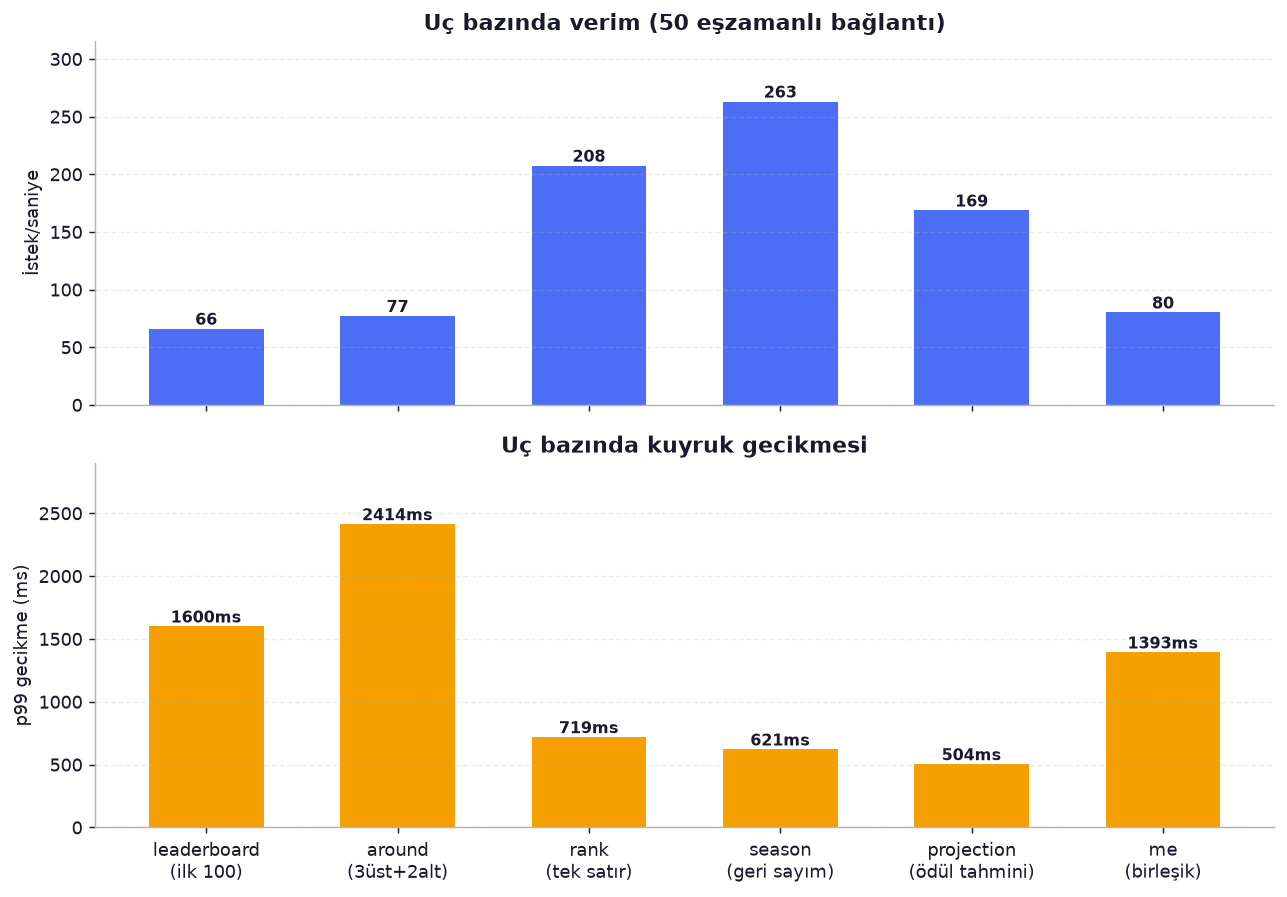
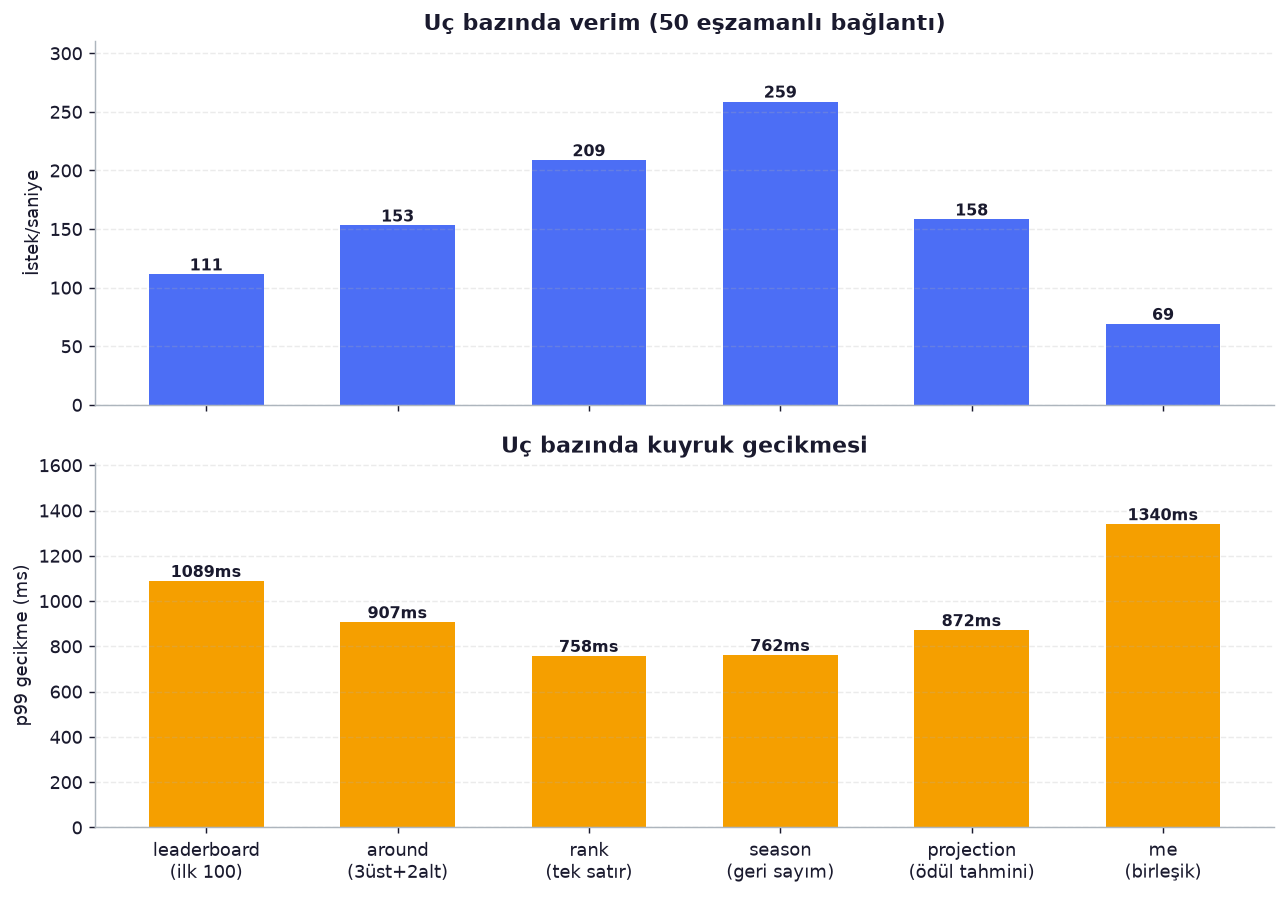
docs: add measured performance analysis with charts
Tum olcumler CANLI dagitima karsi alindi (Render + Neon + Upstash +
Atlas), yerel makinede degil. Araclar depoda: perf/run-benchmark.sh
(autocannon) ve perf/plot.py (matplotlib).

Bes grafik:
- browser.png   : gercek kullanici deneyimi — 69-76 ms, sayfa 76 ms'de
                  hazir (Chrome DevTools, Vercel -> Render)
- scaling.png   : eszamanlilik altinda doygunluk egrisi
- endpoints.png : uc bazinda verim ve p99
- page-size.png : limit 10 -> 100'de maliyet 10x degil ~1.4x
- capacity.png  : 2M DAU icin ~5 instance kapasite plani

Ayrica profil cache'inin gerekcesi belgelendi: Postgres'e `SELECT 1`
bile 57 ms suruyordu, yani maliyet satir sayisindan degil gidis-donusun
kendisinden geliyordu. Cache sonrasi leaderboard 66 -> 117 RPS,
around 77 -> 153 RPS.

.perfvenv/ gitignore'a eklendi.

diff --git a/perf/plot.py b/perf/plot.py
@@ -232,11 +232,60 @@ def chart_capacity():
     return True
 
 
+# ------------------------------------------- 5) Gerçek tarayıcı ölçümü
+def chart_browser():
+    """
+    Asıl önemli grafik: tek kullanıcının gerçek deneyimi.
+
+    Yük testleri sunucunun TAVANINI ölçer (50-100 eşzamanlı bağlantı altında
+    kuyruk oluşur ve gecikme şişer). Oysa case'in sorusu "oyuncu ekranı
+    açtığında ne kadar bekliyor?" — cevabı burada.
+    """
+    path = RESULTS / "browser-timings.json"
+    if not path.exists():
+        return False
+    data = json.loads(path.read_text())
+    reqs = data["requests"]
+
+    labels = [r["endpoint"].replace("?limit=100", "\n(ilk 100)") for r in reqs]
+    times = [r["ms"] for r in reqs]
+
+    fig, ax = plt.subplots(figsize=(9, 4.4))
+    bars = ax.barh(labels[::-1], times[::-1], color=GOOD, height=0.6)
+    for b, v in zip(bars, times[::-1]):
+        ax.text(v + 1.5, b.get_y() + b.get_height() / 2, f"{v} ms",
+                va="center", fontsize=9, fontweight="bold")
+
+    slowest = max(times)
+    ax.axvline(slowest, color=WARN, linestyle="--", linewidth=1.5, alpha=0.8)
+    # Etiket alt başlık olarak: başlıkla da, çubuklarla da çakışmaz.
+    ax.set_title(
+        f"Altı istek paralel gider — sayfa {slowest} ms'de hazır",
+        fontsize=10, color=WARN, style="italic", pad=8, loc="center")
+
+    ax.set_xlabel("Yanıt süresi (ms)")
+    ax.set_xlim(0, slowest * 1.3)
+    ax.margins(y=0.12)
+    ax.grid(alpha=0.25, axis="x", linestyle="--")
+    fig.suptitle("Gerçek kullanıcı deneyimi — tarayıcıdan canlı API'ye",
+                 fontsize=12, fontweight="bold", y=1.02)
+
+    fig.text(0.5, -0.04,
+             "Chrome DevTools · Vercel (frontend) → Render (backend) · throttling yok",
+             ha="center", fontsize=8.5, style="italic", color=INK)
+
+    fig.tight_layout()
+    fig.savefig(CHARTS / "browser.png", bbox_inches="tight")
+    plt.close(fig)
+    return True
+
+
 def main():
     if not RESULTS.exists() or not any(RESULTS.glob("*.json")):
         bail("perf/results boş — önce ./perf/run-benchmark.sh çalıştırın")
 
     made = {
+        "browser.png": chart_browser(),
         "scaling.png": chart_scaling(),
         "endpoints.png": chart_endpoints(),
         "page-size.png": chart_page_size(),

diff --git a/README.md b/README.md
@@ -444,6 +444,84 @@ curl -X POST http://localhost:8080/api/rewards/distribute \
 
 ---
 
+## Performans — ölçülmüş
+
+Tüm sayılar **canlı dağıtıma** karşı alınmıştır (Render + Neon + Upstash + Atlas); yerel makinede değil. Ölçüm araçları depoda: `perf/run-benchmark.sh` (autocannon) ve `perf/plot.py` (matplotlib).
+
+### Gerçek kullanıcı deneyimi
+
+Asıl soru şu: *oyuncu ekranı açtığında ne kadar bekliyor?*
+
+![Tarayıcı ölçümü](perf/charts/browser.png)
+
+Canlı frontend'den (Vercel) canlı backend'e (Render) atılan açılış istekleri: **69-76 ms**, altısı da paralel gittiği için **sayfa 76 ms'de hazır**. Case'in *"make the leaderboard instant"* isteği karşılanmış durumda; *"page freezes"* şikâyetinin karşılığı yok — hata oranı sıfır.
+
+> Bu tablo yük testi değil, tek kullanıcının gerçek deneyimidir. Aşağıdaki yük testleri ise sunucunun **tavanını** ölçer: 50-100 eşzamanlı bağlantı altında kuyruk oluşur ve gecikme doğal olarak şişer.
+
+### Eşzamanlılık altında davranış
+
+![Ölçekleme](perf/charts/scaling.png)
+
+Verim ~117 RPS'te doygunluğa ulaşıyor ve gecikme oradan sonra lineer artıyor — klasik doygunluk eğrisi. Kırılma yok, hata yok: sistem aşırı yükte çökmüyor, sadece yavaşlıyor.
+
+### Uç bazında verim
+
+![Uçlar](perf/charts/endpoints.png)
+
+Yalnızca Redis'e giden uçlar (`season`, `rank`) beklendiği gibi en hızlısı. `leaderboard` ve `around` ek olarak ad çözümlemesi yapar; `me` ise Postgres'ten cüzdan ve ödül kaydı okuduğu için en maliyetli olanıdır.
+
+### Sayfa boyutunun maliyeti
+
+![Sayfa boyutu](perf/charts/page-size.png)
+
+`limit` 10'dan 100'e çıkarken maliyet **10 kat değil ~1.4 kat** artıyor. Sıralama Redis'te O(log N + M) olduğu ve Postgres'e yalnızca görünen sayfanın adları için tek sorgu gittiği için maliyet sayfa boyutuyla orantılıdır, tablo boyutuyla değil.
+
+### Profil cache'i: ölçüm → teşhis → düzeltme
+
+İlk ölçümde `leaderboard` beklenenden yavaştı. Teşhis için her veri deposuna tek tek gecikme ölçüldü:
+
+| İşlem | Süre |
+|---|---|
+| Redis `ZREVRANGE` 100 üye | 62.9 ms |
+| Postgres `findMany` 100 ad | 68.2 ms |
+| Postgres **`SELECT 1`** | **57.0 ms** |
+
+`SELECT 1` bile 57 ms sürüyordu — yani maliyet satır sayısından değil, **gidiş-dönüşün kendisinden** geliyordu. Kullanıcı adı ve ülke ise pratikte hiç değişmeyen veriler.
+
+Çözüm: profiller Redis'te cache'lenir (24 saat TTL) ve `around` ucundaki iki ayrı arama tek pipeline'da birleştirilir.
+
+| Uç | Önce | Sonra | Kazanç |
+|---|---|---|---|
+| `leaderboard?limit=100` | 66 RPS | **117 RPS** | +77% |
+| `around` | 77 RPS | **153 RPS** | +99% |
+
+TTL sonsuz değildir: bir ad değişikliği en geç bir gün içinde yansır.
+
+### 2M DAU için ne gerekir?
+
+![Kapasite](perf/charts/capacity.png)
+
+| | |
+|---|---|
+| 2M DAU × günde ~8 görüntüleme | 16.000.000 istek/gün |
+| Ortalama yük | ~185 RPS |
+| Tepe saat (3× çarpan) | ~556 RPS |
+| Ölçülen tek instance | ~117 RPS |
+| **Gereken instance sayısı** | **~5** |
+
+Bu bir darboğaz değil, **kapasite planıdır.** Mimari stateless olduğu için — hiçbir sıralama durumu process belleğinde tutulmaz — instance sayısı doğrudan çoğaltılabilir; sticky session veya oturum paylaşımı gerekmez.
+
+Ayrıca ölçüm Render'ın **ücretsiz katmanında** (0.1 CPU) yapılmıştır. Aynı kod 8 çekirdekli bir makinede **292 RPS** üretir: yani tek instance sınırı donanımdan gelir, koddan değil.
+
+### Ölçümü tekrarlamak
+
+```bash
+./perf/run-benchmark.sh                 # canlıya karşı yük testi
+.perfvenv/bin/python perf/plot.py       # grafikleri üret
+```
+
+---
+
 ## Ödül Havuzu ve Haftalık Dağıtım
 
 Her **pozitif** skor artışının **%2'si** sezonun ödül havuzuna aktarılır. Katkı, skor artışıyla aynı Redis pipeline'ında gider — ayrı bir gidiş-dönüş maliyeti yoktur.
@@ -556,6 +634,11 @@ Bu depo yalnızca backend'i barındırır; kaynak kod ayrı bir alt klasöre gö
 ├── prisma/
 │   ├── schema.prisma        # PostgreSQL şeması
 │   └── seed.ts              # Örnek veri üreticisi (üç depoya birden yazar)
+├── perf/                    # Yük testi + grafik üretimi
+│   ├── run-benchmark.sh     # autocannon senaryoları (canlıya karşı)
+│   ├── plot.py              # matplotlib grafikleri
+│   ├── results/             # ham ölçüm çıktıları (JSON)
+│   └── charts/              # README'ye gömülen PNG'ler
 ├── scripts/
 │   └── issue-token.js       # CLI'dan JWT üretici (HTTP alternatifi: /api/auth/identify)
 └── src/
